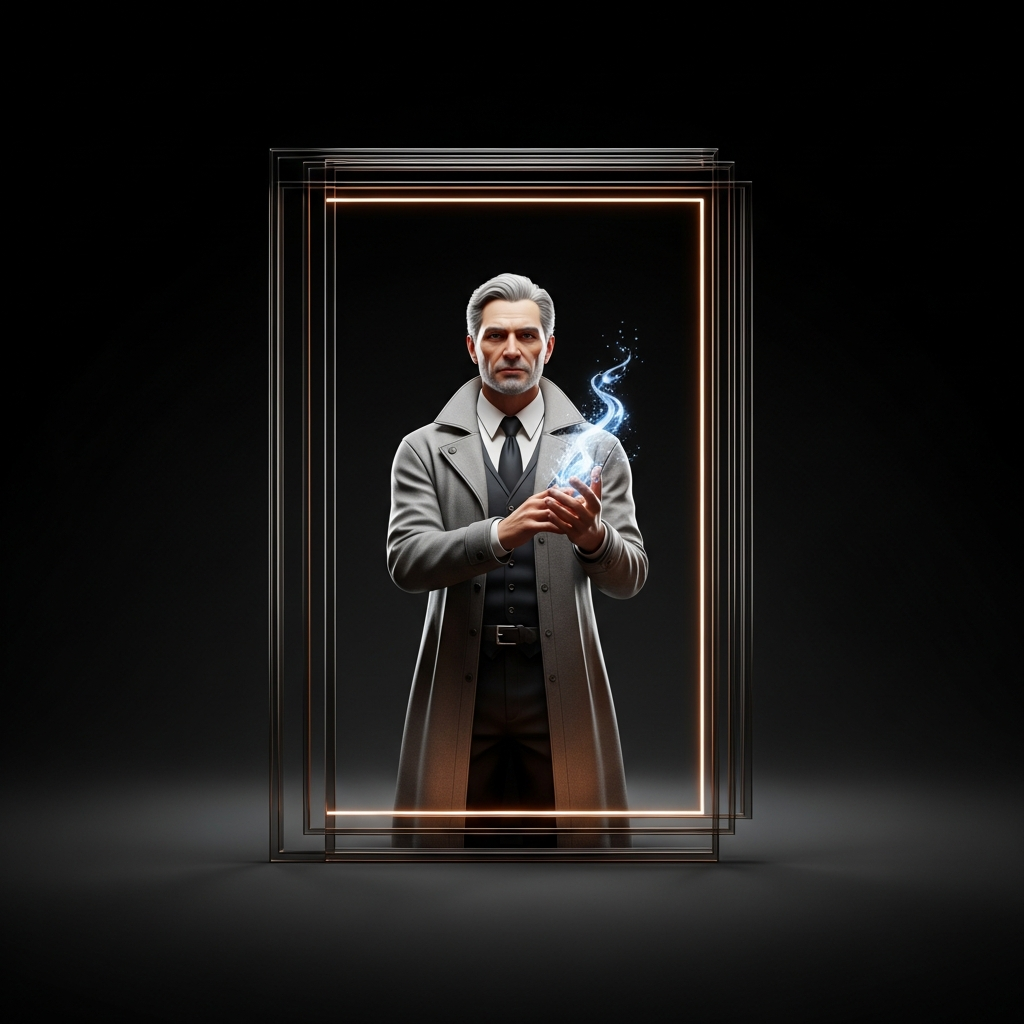
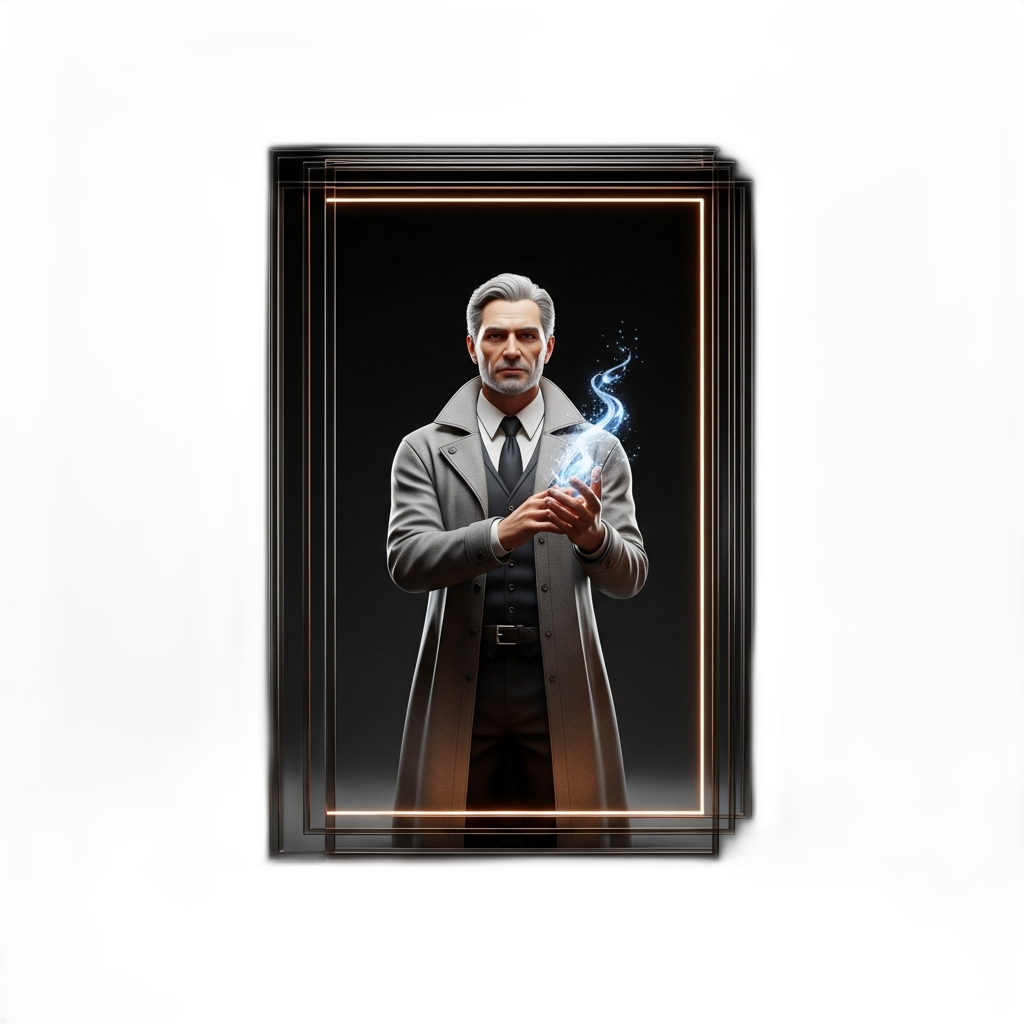
assets: complete Adult (18+) age-band asset set with diverse character variants
Generated full asset library for adult age band:
- 10 diverse character variants (5 man, 5 woman across ethnicities)
- Companions, feelings (8), orbs (3), UI buttons with clicked states
- Transparency pass applied via remove_ui_backgrounds.py

diff --git a/remove_ui_backgrounds.py b/remove_ui_backgrounds.py
@@ -33,4 +33,4 @@ def process_transparency(target_dir_name):
             print(f"  ❌ Failed {img_path.name}: {e}")
 
 if __name__ == "__main__":
-    process_transparency('age_band_assets/older_adolescents')
+    process_transparency('age_band_assets/adults')
